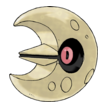
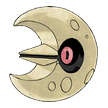
Recut the character badges from their original artwork
The badges were cut out of their white artwork by matching colour across
the whole image, which punches a hole wherever the drawing happens to
contain a light or a JPEG-speckled pixel. Bellibolt carried 237 such
holes, densest around the pupils, which is where they read as a border
in dark mode. Mudkip had 5886 and Ditto 2801 — their white fins and
highlights were visibly greyed by the page showing through.

tools/make-badge.py cuts them again by flooding inwards from the edges
instead. The flood stops at the character's outline, so enclosed light
areas like the eyes are never reached. It downscales in premultiplied
alpha so the background cannot bleed into the silhouette, which gives a
proper anti-aliased edge rather than the previous 32-step one.

Badges are now tight-cropped, so height-locking in CSS renders them at
the same optical size; Bellibolt had ~4% built-in padding and was
drawing slightly smaller than the Our Story pair. They are sized to 3x
their display height, which takes the five images from 553KB to 206KB.
The favicon is rebuilt from the same clean cutout.

Left at full colour deliberately: quantising to 256 colours reaches 15KB
but bands the gradient on Bellibolt's belly.

The two toggle icons turned out not to have this defect. They are
regenerated anyway for centring — Lunatone sat 8.3%/9.3% off centre
inside the round button.

Also stops the grey-blue rectangle a touch screen paints over a tapped
[…]

diff --git a/styles.css b/styles.css
@@ -77,6 +77,16 @@ a {
   color: var(--accent);
 }
 
+/* Tapping a control on a touch screen paints a translucent grey-blue
+   rectangle over it, which sits square over the round theme toggle. Touch
+   gets its own :active feedback below instead. */
+a,
+button,
+label,
+input {
+  -webkit-tap-highlight-color: transparent;
+}
+
 ::selection {
   background: color-mix(in srgb, var(--accent) 28%, transparent);
 }
@@ -137,8 +147,10 @@ a {
   transition: color 0.15s ease, border-color 0.15s ease;
 }
 
-.site-header nav a:hover {
-  color: var(--ink);
+@media (hover: hover) {
+  .site-header nav a:hover {
+    color: var(--ink);
+  }
 }
 
 .site-header nav a[aria-current="page"] {
@@ -217,8 +229,14 @@ p.quote {
   transition: background-color 0.15s ease;
 }
 
-.theme-toggle:hover {
-  background: color-mix(in srgb, var(--accent) 12%, transparent);
+@media (hover: hover) {
+  .theme-toggle:hover {
+    background: color-mix(in srgb, var(--accent) 12%, transparent);
+  }
+}
+
+.theme-toggle:active {
+  background: color-mix(in srgb, var(--accent) 20%, transparent);
 }
 
 .theme-toggle img {
@@ -370,8 +388,14 @@ p.quote {
   transition: background-color 0.15s ease, color 0.15s ease, border-color 0.15s ease;
 }
 
-.toggle-group label:hover {
-  background: color-mix(in srgb, var(--accent) 12%, transparent);
+@media (hover: hover) {
+  .toggle-group label:hover {
+    background: color-mix(in srgb, var(--accent) 12%, transparent);
+  }
+}
+
+.toggle-group label:active {
+  background: color-mix(in srgb, var(--accent) 20%, transparent);
 }
 
 .toggle-group input:checked + label {
@@ -409,8 +433,14 @@ p.quote {
   transition: background-color 0.15s ease, opacity 0.15s ease;
 }
 
-.rsvp-submit:hover:not(:disabled) {
-  background: color-mix(in srgb, var(--accent) 85%, var(--ink));
+@media (hover: hover) {
+  .rsvp-submit:hover:not(:disabled) {
+    background: color-mix(in srgb, var(--accent) 85%, var(--ink));
+  }
+}
+
+.rsvp-submit:active:not(:disabled) {
+  background: color-mix(in srgb, var(--accent) 78%, var(--ink));
 }
 
 .rsvp-submit:disabled {

diff --git a/our-story.html b/our-story.html
@@ -57,8 +57,8 @@
   </header>
   <main>
     <div class="page-marks">
-      <img class="page-mark" src="/images/mudkip-badge.png" alt="" aria-hidden="true" width="867" height="911">
-      <img class="page-mark" src="/images/ditto-badge.png" alt="" aria-hidden="true" width="512" height="432">
+      <img class="page-mark" src="/images/mudkip-badge.png" alt="" aria-hidden="true" width="251" height="264">
+      <img class="page-mark" src="/images/ditto-badge.png" alt="" aria-hidden="true" width="314" height="264">
     </div>
     <p class="eyebrow">Our Story</p>
     <h1 class="page-title">How it started</h1>

diff --git a/rsvp.html b/rsvp.html
@@ -56,7 +56,7 @@
     </div>
   </header>
   <main>
-    <img class="page-mark" src="/images/bellibolt-badge.png" alt="" aria-hidden="true" width="260" height="260">
+    <img class="page-mark" src="/images/bellibolt-badge.png" alt="" aria-hidden="true" width="262" height="264">
     <p class="eyebrow">RSVP</p>
     <h1 class="page-title">Let us know</h1>
     <div class="rule"></div>

diff --git a/tools/make-badge.py b/tools/make-badge.py
@@ -1,0 +1,103 @@
+#!/usr/bin/env python3
+"""Cut a character badge out of its original white-background artwork.
+
+The badges are line art on white, so the background is separated by flooding
+inwards from the edges rather than by matching colour across the whole image.
+Colour matching punches holes wherever the artwork happens to contain a light
+or a compression-speckled pixel — that is what left the earlier badges full of
+pinholes, most visibly as a halo around Bellibolt's pupils in dark mode.
+Flooding stops at the character's outline, so enclosed light areas like the
+eyes stay solid.
+
+Usage:
+  make-badge.py SRC OUT.png --height 300
+  make-badge.py SRC OUT.png --canvas 108 108 --content-scale 0.885
+
+The marks are sized by height in CSS, so a tight crop (the default) makes every
+badge render at the same optical size. --canvas with --content-scale keeps a
+fixed square canvas with the artwork centred, which is what the round theme
+toggle needs.
+"""
+
+import argparse
+import numpy as np
+from PIL import Image
+from scipy.ndimage import binary_propagation
+
+WHITE_THRESHOLD = 238  # a pixel this bright on every channel counts as paper
+
+
+def cutout(path):
+    """Return an RGBA image with the paper background made transparent."""
+    rgb = np.array(Image.open(path).convert('RGB')).astype(np.int16)
+    h, w = rgb.shape[:2]
+
+    paper = (rgb >= WHITE_THRESHOLD).all(axis=2)
+
+    # Seed from the border and let the flood spread only through paper, so
+    # white enclosed by the character's outline is never reached.
+    seed = np.zeros((h, w), bool)
+    seed[0], seed[-1], seed[:, 0], seed[:, -1] = True, True, True, True
+    seed &= paper
+    background = binary_propagation(seed, mask=paper)
+
+    rgba = np.dstack([rgb, np.where(background, 0, 255)]).astype(np.uint8)
+    im = Image.fromarray(rgba, 'RGBA')
+    return im.crop(im.getbbox())
+
+
+def resize_premultiplied(im, size):
+    """Resize RGBA without letting the transparent background bleed inwards.
+
+    Averaging raw RGB across the silhouette edge mixes in the background's
+    white and leaves a pale fringe. Premultiplying by alpha first weights each
+    pixel by its own coverage, so only real colour contributes.
+    """
+    a = np.array(im).astype(np.float64)
+    alpha = a[..., 3:4] / 255.0
+    premultiplied = np.dstack([a[..., :3] * alpha, a[..., 3]]).astype(np.uint8)
+
+    small = np.array(
+        Image.fromarray(premultiplied, 'RGBA').resize(size, Image.LANCZOS)
+    ).astype(np.float64)
+
+    out_alpha = np.clip(small[..., 3:4], 0, 255)
+    with np.errstate(divide='ignore', invalid='ignore'):
+        rgb = np.where(out_alpha > 0, small[..., :3] / (out_alpha / 255.0), 0)
+    return Image.fromarray(
+        np.dstack([np.clip(rgb, 0, 255), out_alpha]).astype(np.uint8), 'RGBA'
+    )
+
+
+def main():
+    p = argparse.ArgumentParser()
+    p.add_argument('source')
+    p.add_argument('out')
+    p.add_argument('--height', type=int, help='content height for a tight crop')
+    p.add_argument('--canvas', type=int, nargs=2, metavar=('W', 'H'))
+    p.add_argument('--content-scale', type=float, default=1.0)
+    args = p.parse_args()
+
+    art = cutout(args.source)
+
+    if args.canvas:
+        cw, ch = args.canvas
+        limit_w, limit_h = cw * args.content_scale, ch * args.content_scale
+    else:
+        scale = args.height / art.height
+        cw, ch = round(art.width * scale), args.height
+        limit_w, limit_h = cw, ch
+
+    scale = min(limit_w / art.width, limit_h / art.height)
+    placed = resize_premultiplied(
+        art, (max(1, round(art.width * scale)), max(1, round(art.height * scale)))
+    )
+
+    canvas = Image.new('RGBA', (cw, ch), (0, 0, 0, 0))
+    canvas.paste(placed, ((cw - placed.width) // 2, (ch - placed.height) // 2))
+    canvas.save(args.out, optimize=True)
+    print(f'{args.out}: {cw}x{ch}, artwork {placed.width}x{placed.height}')
+
+
+if __name__ == '__main__':
+    main()
